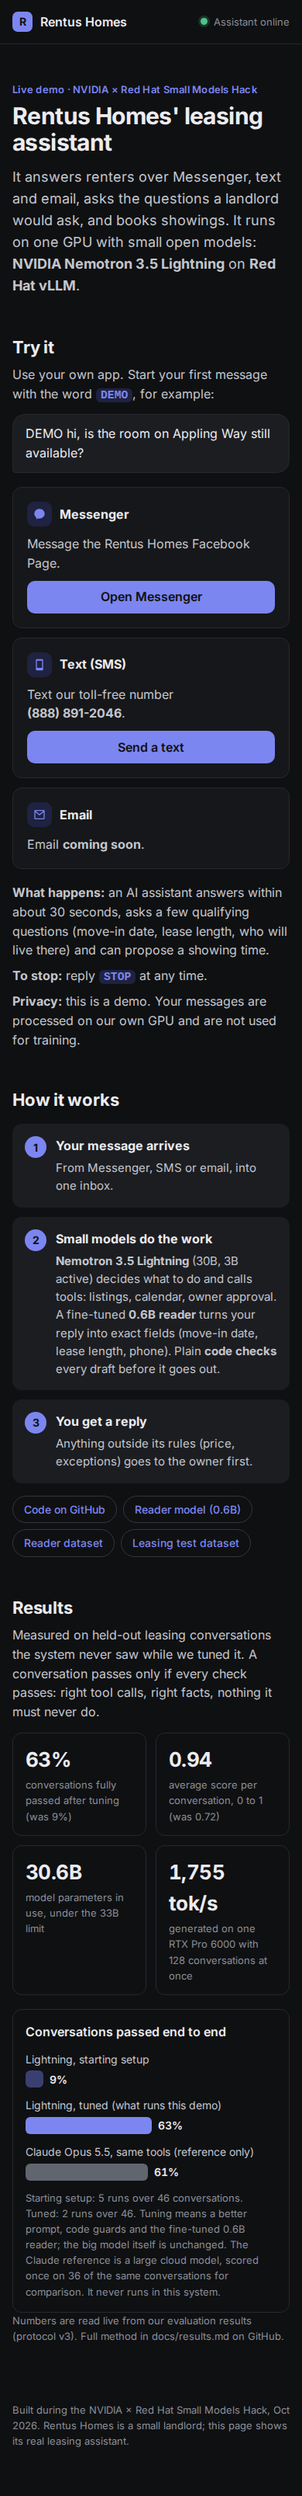
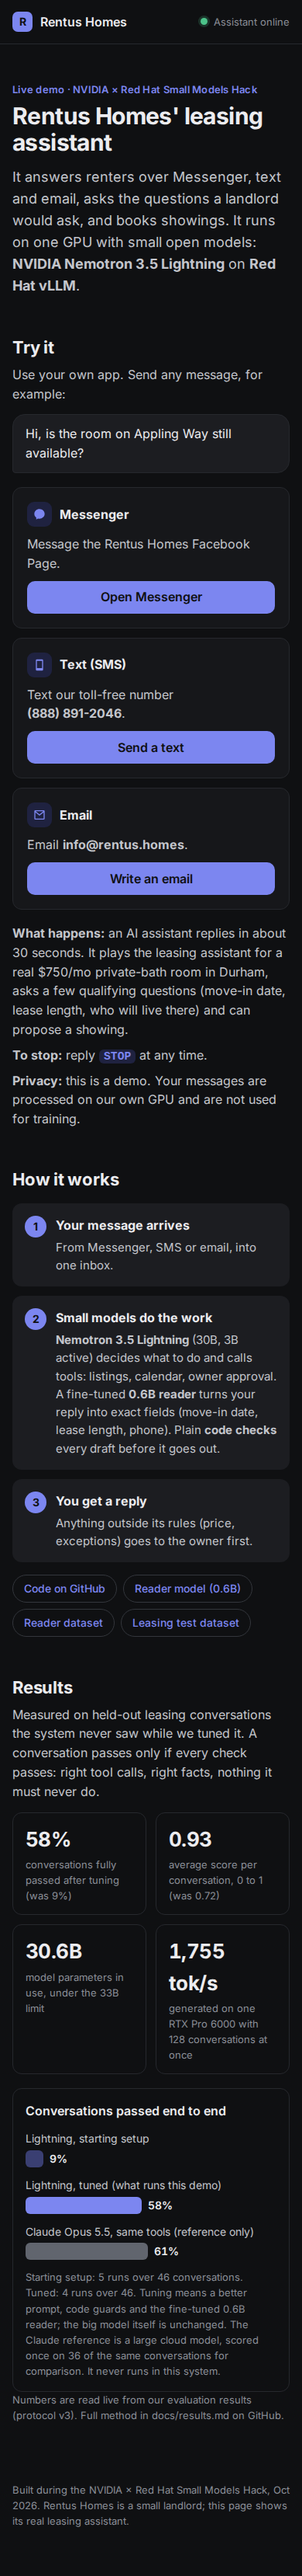
Public page: email card live (info@rentus.homes, subject Room on Appling Way), bypass Cloudflare email obfuscation (CSP-blocked), fresh screenshots

Changed region(s): [[0.0308, 0.0311, 0.9538, 0.9956], [0.8615, 0.1556, 0.8923, 0.1867]]

diff --git a/deploy/public_site/static/index.html b/deploy/public_site/static/index.html
@@ -42,8 +42,8 @@
       </article>
       <article class="card" {{EMAIL_HIDDEN}}>
         <div class="card-h"><span class="ic ic-mail" aria-hidden="true"></span><h3>Email</h3></div>
-        <p class="what">Email <strong class="break">{{DEMO_EMAIL}}</strong>.</p>
-        <a class="btn" href="{{EMAIL_HREF}}">Write an email</a>
+        <!--email_off--><p class="what">Email <strong class="break">{{DEMO_EMAIL}}</strong>.</p>
+        <a class="btn" href="{{EMAIL_HREF}}">Write an email</a><!--/email_off-->
       </article>
     </div>
     <ul class="expect">

diff --git a/deploy/public_site/app.py b/deploy/public_site/app.py
@@ -185,7 +185,7 @@ def online(request: Request):
 
 @app.get("/", response_class=HTMLResponse)
 def index():
-    return HTMLResponse(render_page(), headers={"Cache-Control": "no-cache"})
+    return HTMLResponse(render_page(), headers={"Cache-Control": "no-cache, no-transform"})  # no-transform: stop Cloudflare email obfuscation (its script is CSP-blocked)
 
 
 _STATIC = {"app.js": "text/javascript", "app.css": "text/css", "favicon.svg": "image/svg+xml"}

diff --git a/deploy/README.md b/deploy/README.md
@@ -20,7 +20,7 @@ Displayed values: the Messenger link, the toll-free SMS number (only `TWILIO_PHO
 
 ```bash
 # app (port 8090 is taken by the labeler, so 8091)
-nohup .venv/bin/python -m uvicorn deploy.public_site.app:app --host 127.0.0.1 --port 8091 > runs/public_site.log 2>&1 &
+PUBLIC_DEMO_EMAIL=info@rentus.homes nohup .venv/bin/python -m uvicorn deploy.public_site.app:app --host 127.0.0.1 --port 8091 > runs/public_site.log 2>&1 &
 
 # named Cloudflare tunnel "rentus-demo" (separate from the rental-mgmt tunnel; its own config)
 nohup cloudflared tunnel --no-autoupdate --config ~/.cloudflared/rentus-demo.yml run rentus-demo > runs/public_site_tunnel.log 2>&1 &
@@ -46,3 +46,5 @@ Fallback without the named tunnel: `cloudflared tunnel --url http://127.0.0.1:80
 ```bash
 .venv/bin/python -m pytest deploy/public_site/tests -q   # 404s, no writes, upstream allow-list, CSP, rate limit
 ```
+
+Note: Cloudflare's Email Obfuscation would rewrite the address into a script-decoded link that the CSP blocks; the page sends `Cache-Control: no-transform` and wraps the email in `<!--email_off-->` so the plain `mailto:` link survives.
